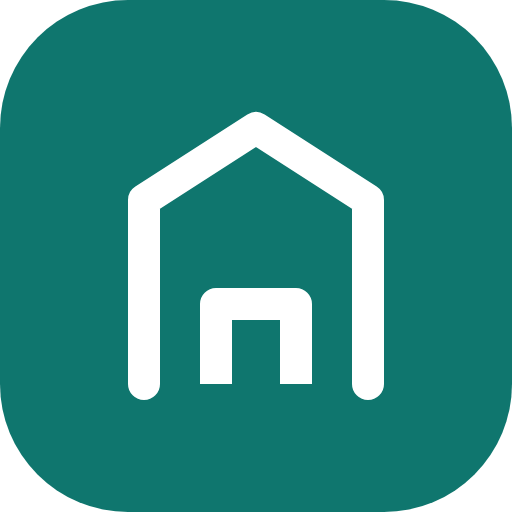
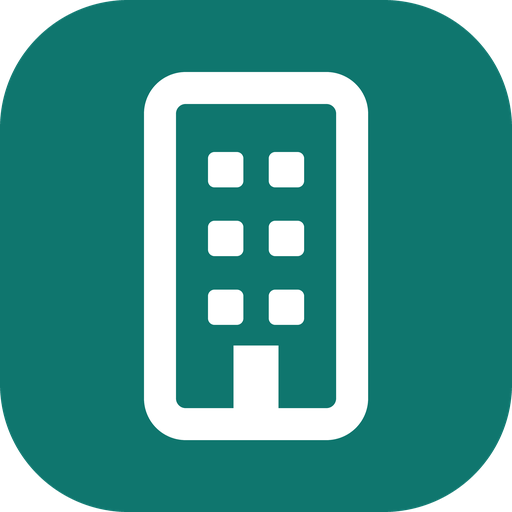
Ícono de Torre: la torre con ventanas en vez de la casa de House
Un solo componente (IconoTorre) en el menú, el inicio de sesión y la portada; favicon,
íconos de instalar (incluidos los maskable), imagen para compartir y cierre de los videos.

Changed region(s): [[0.25, 0.125, 0.75, 0.875], [0.4062, 0.4062, 0.5938, 0.5]]

diff --git a/src/ui/IconoTorre.tsx b/src/ui/IconoTorre.tsx
@@ -1,0 +1,28 @@
+/**
+ * Ícono de Torre (4-nov-2026, Miguel eligió la opción A): una torre con ventanas sobre el cuadro de marca. Reemplaza a la casa que quedó de cuando el
+ * producto se llamaba House. El mismo dibujo vive en `public/favicon.svg`, en los PNG de instalar (`scripts/marketing/iconos-torre.py`) y en el cierre de
+ * los videos: si cambias las medidas aquí, cámbialas allá.
+ *
+ * Usa los colores del tema (`fill-brand`, `on-brand`), así que toma el color de la marca propia de la empresa cuando está activa.
+ */
+export const TORRE_ICONO = {
+  /** Contorno de la torre (en un cuadro de 32 × 32). */
+  torre: { x: 10, y: 5.5, width: 12, height: 21, rx: 1.6 },
+  /** Ventanas: dos columnas, tres pisos. */
+  ventanas: [[13, 9.5], [16.8, 9.5], [13, 13.8], [16.8, 13.8], [13, 18.1], [16.8, 18.1]] as const,
+  ventana: 2.2,
+  /** Puerta, apoyada en la base. */
+  puerta: { x: 14.6, y: 21.6, width: 2.8, height: 4.9 },
+} as const;
+
+export function IconoTorre({ className }: { className?: string }) {
+  const { torre, ventanas, ventana, puerta } = TORRE_ICONO;
+  return (
+    <svg viewBox="0 0 32 32" className={className} aria-hidden="true">
+      <rect width="32" height="32" rx="8" className="fill-brand" />
+      <rect {...torre} fill="none" className="stroke-on-brand" strokeWidth="2" />
+      {ventanas.map(([x, y]) => <rect key={`${x}-${y}`} x={x} y={y} width={ventana} height={ventana} rx="0.4" className="fill-on-brand" />)}
+      <rect {...puerta} className="fill-on-brand" />
+    </svg>
+  );
+}

diff --git a/src/pages/Login.tsx b/src/pages/Login.tsx
@@ -6,6 +6,7 @@ import { HOME, useAuth } from '../auth/AuthContext';
 import { Alert, Button, Input } from '../ui';
 import { api, ApiError, errorText } from '../api';
 import PanelLogin from './_login/PanelLogin';
+import { IconoTorre } from '../ui/IconoTorre';
 
 const DEMO = [
   ['Superadmin', 'miguel.gargurevich@admin.com', 'admin1234'],
@@ -61,10 +62,7 @@ export default function Login() {
       <main className="flex items-center justify-center px-6 py-12">
         <div className="w-full max-w-sm">
           <div className="mb-8 flex items-center gap-2.5 font-semibold tracking-tight">
-            <svg viewBox="0 0 32 32" className="h-8 w-8" aria-hidden="true">
-              <rect width="32" height="32" rx="8" className="fill-brand" />
-              <path d="M9 24V12.5L16 8l7 4.5V24M13.5 24v-5h5v5" fill="none" className="stroke-on-brand" strokeWidth="2" strokeLinejoin="round" strokeLinecap="round" />
-            </svg>
+            <IconoTorre className="h-8 w-8" />
             <span className="text-xl">Torre</span>
           </div>
           <h1 className="text-2xl font-semibold">Ingresa a tu cuenta</h1>

diff --git a/src/app/Shell.tsx b/src/app/Shell.tsx
@@ -19,6 +19,7 @@ import { MARCA_TORRE, inicialDeMarca } from '../lib/marca';
 import { ImagenRecibo } from '../pages/shared/mantenimiento/ImagenRecibo';
 import { MarcaContext, useMarca } from './marca/contexto';
 import { MarcaTema } from './marca/MarcaTema';
+import { IconoTorre } from '../ui/IconoTorre';
 
 /** Encabezado del menú: la marca de la empresa (logo o su inicial y su nombre) si la tiene activa; si no, la de Torre. */
 function Logo({ soloMarca = false }: { soloMarca?: boolean }) {
@@ -36,10 +37,7 @@ function Logo({ soloMarca = false }: { soloMarca?: boolean }) {
   }
   return (
     <span className="flex items-center gap-2.5 font-semibold tracking-tight">
-      <svg viewBox="0 0 32 32" className="h-7 w-7 shrink-0" aria-hidden="true">
-        <rect width="32" height="32" rx="8" className="fill-brand" />
-        <path d="M9 24V12.5L16 8l7 4.5V24M13.5 24v-5h5v5" fill="none" className="stroke-on-brand" strokeWidth="2" strokeLinejoin="round" strokeLinecap="round" />
-      </svg>
+      <IconoTorre className="h-7 w-7 shrink-0" />
       {!soloMarca && 'Torre'}
     </span>
   );

diff --git a/tests/instalar-app.test.ts b/tests/instalar-app.test.ts
@@ -49,3 +49,17 @@ describe('íconos para instalar y para la pestaña (4-nov, comparado con el Port
     for (const t of ['href="/favicon-32.png"', 'href="/favicon-16.png"', 'rel="apple-touch-icon" sizes="180x180"']) assert.ok(h.includes(t), t);
   });
 });
+
+describe('ícono de Torre: la torre con ventanas (Miguel, 4-nov: la casa quedó de cuando se llamaba House)', () => {
+  it('el logo de la app, del inicio de sesión y de la portada es el mismo componente; ya no queda la casa', () => {
+    for (const ruta of ['src/app/Shell.tsx', 'src/pages/Login.tsx', 'src/pages/publico/Marco.tsx']) {
+      const t = fuente(ruta);
+      assert.match(t, /<IconoTorre className=/, ruta);
+      assert.equal(t.includes('12.5L16 8'), false, `${ruta}: sin la casa`);
+    }
+    const svg = fuente('public/favicon.svg');
+    assert.match(svg, /<rect x="10" y="5.5" width="12" height="21"/);
+    assert.equal(svg.includes('<path'), false, 'el favicon ya no es la casa');
+    assert.equal(fuente('scripts/marketing/grabar-video.mjs').includes('12.5L16 8'), false, 'el cierre de los videos tampoco');
+  });
+});

diff --git a/src/pages/publico/Marco.tsx b/src/pages/publico/Marco.tsx
@@ -3,14 +3,12 @@ import { Link } from 'react-router-dom';
 import { cx } from '../../ui';
 import { pieMarco } from '../../lib/seo/textos';
 import { useCatalogo } from './catalogo';
+import { IconoTorre } from '../../ui/IconoTorre';
 
 export function Logo() {
   return (
     <Link to="/" className="flex items-center gap-2.5 font-semibold tracking-tight" aria-label="Torre, inicio">
-      <svg viewBox="0 0 32 32" className="h-8 w-8" aria-hidden="true">
-        <rect width="32" height="32" rx="8" className="fill-brand" />
-        <path d="M9 24V12.5L16 8l7 4.5V24M13.5 24v-5h5v5" fill="none" className="stroke-on-brand" strokeWidth="2" strokeLinejoin="round" strokeLinecap="round" />
-      </svg>
+      <IconoTorre className="h-8 w-8" />
       <span className="text-xl">Torre</span>
     </Link>
   );

diff --git a/scripts/marketing/iconos-torre.py b/scripts/marketing/iconos-torre.py
@@ -1,0 +1,72 @@
+#!/usr/bin/env python3
+"""Genera los íconos de Torre (la torre con ventanas, opción A de Miguel, 4-nov-2026) en `public/`.
+
+Uso: python3 scripts/marketing/iconos-torre.py
+
+Mismas medidas que `src/ui/IconoTorre.tsx` (cuadro de 32 × 32). Se dibuja 8 veces más grande y se reduce (bordes suaves sin depender de un
+rasterizador de SVG). Salen:
+  favicon.svg, favicon-16.png, favicon-32.png        pestaña del navegador
+  icon-192.png, icon-512.png                         app instalada (esquinas redondeadas, fondo transparente)
+  apple-touch-icon.png (180)                         iPhone (cuadrado lleno: iOS redondea solo)
+  icon-maskable-192.png, icon-maskable-512.png       Android (fondo a sangre y la torre dentro de la zona segura)
+"""
+from PIL import Image, ImageDraw
+
+VERDE = (15, 118, 110, 255)
+BLANCO = (255, 255, 255, 255)
+TORRE = (10, 5.5, 12, 21, 1.6)  # x, y, ancho, alto, radio
+VENTANAS = [(13, 9.5), (16.8, 9.5), (13, 13.8), (16.8, 13.8), (13, 18.1), (16.8, 18.1)]
+VENTANA = 2.2
+PUERTA = (14.6, 21.6, 2.8, 4.9)
+SS = 8  # supermuestreo
+
+
+def dibujar(lado, *, esquinas=True, escala=1.0, trazo=2.0):
+    """Ícono de `lado` px. `escala` < 1 achica la torre dentro del cuadro (maskable). `trazo` en unidades de 32."""
+    n = lado * SS
+    im = Image.new('RGBA', (n, n), (0, 0, 0, 0))
+    d = ImageDraw.Draw(im)
+    u = n / 32
+    if esquinas:
+        d.rounded_rectangle((0, 0, n - 1, n - 1), radius=8 * u, fill=VERDE)
+    else:
+        d.rectangle((0, 0, n, n), fill=VERDE)
+    c = 16  # centro: la torre se escala alrededor del centro del cuadro
+
+    def p(x, y):
+        return ((c + (x - c) * escala) * u, (c + (y - c) * escala) * u)
+
+    x, y, w, h, r = TORRE
+    t = trazo * escala * u
+    a, b = p(x, y), p(x + w, y + h)
+    d.rounded_rectangle((a[0] - t / 2, a[1] - t / 2, b[0] + t / 2, b[1] + t / 2), radius=(r + trazo / 2) * escala * u, fill=BLANCO)
+    d.rounded_rectangle((a[0] + t / 2, a[1] + t / 2, b[0] - t / 2, b[1] - t / 2), radius=max(0, (r - trazo / 2)) * escala * u, fill=VERDE)
+    for vx, vy in VENTANAS:
+        a, b = p(vx, vy), p(vx + VENTANA, vy + VENTANA)
+        d.rounded_rectangle((*a, *b), radius=0.4 * escala * u, fill=BLANCO)
+    x, y, w, h = PUERTA
+    a, b = p(x, y), p(x + w, y + h)
+    d.rectangle((*a, *b), fill=BLANCO)
+    return im.resize((lado, lado), Image.LANCZOS)
+
+
+def svg():
+    x, y, w, h, r = TORRE
+    ventanas = ''.join(f'<rect x="{vx}" y="{vy}" width="{VENTANA}" height="{VENTANA}" rx="0.4" fill="#fff"/>' for vx, vy in VENTANAS)
+    px, py, pw, ph = PUERTA
+    return (f'<svg xmlns="http://www.w3.org/2000/svg" viewBox="0 0 32 32"><rect width="32" height="32" rx="8" fill="#0f766e"/>'
+            f'<rect x="{x}" y="{y}" width="{w}" height="{h}" rx="{r}" fill="none" stroke="#fff" stroke-width="2"/>{ventanas}'
+            f'<rect x="{px}" y="{py}" width="{pw}" height="{ph}" fill="#fff"/></svg>\n')
+
+
+if __name__ == '__main__':
+    open('public/favicon.svg', 'w').write(svg())
+    dibujar(16, trazo=2.6).save('public/favicon-16.png')
+    dibujar(32, trazo=2.2).save('public/favicon-32.png')
+    dibujar(192).save('public/icon-192.png')
+    dibujar(512).save('public/icon-512.png')
+    dibujar(180, esquinas=False).convert('RGB').save('public/apple-touch-icon.png')
+    # Maskable: la zona segura es un círculo de radio 40 %; la torre (21 de alto) al 72 % entra holgada.
+    dibujar(192, esquinas=False, escala=0.72).convert('RGB').save('public/icon-maskable-192.png')
+    dibujar(512, esquinas=False, escala=0.72).convert('RGB').save('public/icon-maskable-512.png')
+    print('íconos de Torre generados en public/')

diff --git a/scripts/marketing/manual-con-videos.py b/scripts/marketing/manual-con-videos.py
@@ -18,8 +18,9 @@ import sys
 BASE_VIDEOS = 'https://s3.gargurevich.dev/dashboardia-bucket/documentos/b601f104-f838-49e7-9da5-c49efe9dc723/videos-torre/manual'
 ACENTO = '#0f766e'  # verde de Torre (el mismo del cierre de los videos y del ícono)
 APP = 'https://torrecondominios.com'
-ORDEN_ROLES = ['admin', 'junta', 'junta_central', 'propietario', 'inquilino', 'mantenimiento', 'seguridad', 'limpieza', 'jardineria']
+ORDEN_ROLES = ['todos', 'admin', 'junta', 'junta_central', 'propietario', 'inquilino', 'mantenimiento', 'seguridad', 'limpieza', 'jardineria']
 QUIEN = {
+    'todos': 'Todos los usuarios, en el celular',
     'admin': 'La administradora (la empresa que administra el condominio)',
     'junta': 'La junta directiva de cada block (presidente, tesorero, secretario)',
     'junta_central': 'La Junta central del condominio (además de lo de la junta)',
@@ -78,7 +79,8 @@ def payload(salida):
             if e.get('comparte_con') or e.get('nota'):
                 parrafos.append(e.get('nota') or 'Es la misma pantalla que la de otro rol: el video sirve igual.')
             if video:
-                parrafos.append(f'VIDEO::{video}')
+                formato = e.get('formato') or 'escritorio'
+                parrafos.append(f'VIDEO::{video}::{formato}')
             secciones.append({'titulo': e['menu'], 'etiqueta': e['rol_nombre'], 'parrafos': parrafos})
 
     secciones.append({
@@ -127,14 +129,17 @@ def videos(entrada, salida, grupos_json=None):
         nonlocal n
         n += 1
         v = html.unescape(m.group(1))
-        url = f'{BASE_VIDEOS}/torre-{v}-escritorio.mp4'
-        return (f'<figure class="video-torre"><video controls preload="none" playsinline '
+        formato = m.group(2) or 'escritorio'
+        url = f'{BASE_VIDEOS}/torre-{v}-{formato}.mp4'
+        clase = 'video-torre video-celular' if formato == 'celular' else 'video-torre'
+        return (f'<figure class="{clase}"><video controls preload="none" playsinline '
                 f'src="{url}#t=0.5" aria-label="Video de esta opción"></video>'
                 f'<figcaption><a href="{url}" target="_blank" rel="noopener">Abrir el video en otra pestaña</a></figcaption></figure>')
 
-    h = re.sub(r'<p[^>]*>\s*VIDEO::([A-Za-z0-9._-]+)\s*</p>', reemplazo, h)
+    h = re.sub(r'<p[^>]*>\s*VIDEO::([A-Za-z0-9._-]+?)(?:::(escritorio|celular))?\s*</p>', reemplazo, h)
     estilo = ('<style>.video-torre{margin:1rem 0 0}.video-torre video{display:block;width:100%;max-width:960px;aspect-ratio:16/9;'
               'border-radius:12px;border:1px solid var(--borde,#e2e8f2);background:#0b1f1d}'
+              '.video-celular video{max-width:340px;aspect-ratio:9/16}'
               '.video-torre figcaption{margin-top:.4rem;font-size:.85rem}@media print{.video-torre{display:none}}'
               # El índice lateral es «sticky»: con 60 opciones no entraba en la pantalla y no se podía bajar.
               '.toc{max-height:calc(100vh - 3rem);overflow-y:auto;overscroll-behavior:contain;padding-right:.25rem}'

diff --git a/docs/HANDOFF.md b/docs/HANDOFF.md
@@ -4,6 +4,15 @@ Registro entre agentes de código (Claude Code, OpenCode, Cline…). Una entrada
 
 ---
 
+## 2026-11-04 — Ícono nuevo: la torre con ventanas (Claude Code, Opus 5.5) — push: no
+
+- Miguel: «el ícono es una casa (quedó de House), ahora se llama Torre» → eligió la opción A (torre con ventanas, 2 × 3 ventanas y puerta).
+- `src/ui/IconoTorre.tsx` (un solo componente, colores del tema: toma la marca propia) en `Shell`, `Login` y `publico/Marco`. `public/favicon.svg` y los PNG (192, 512, maskable 192/512, apple-touch 180, favicon 16/32) con `scripts/marketing/iconos-torre.py` (PIL, supermuestreo). `og-torre.png` con `scripts/seo/generar-imagenes.mjs` (lee el favicon.svg; ese script también reescribe 3 íconos: corre `iconos-torre.py` DESPUÉS). Cierre de los videos (`grabar-video.mjs`) con la torre. Prueba en `tests/instalar-app.test.ts` (ya no queda la casa).
+- Antes (mismo día): íconos maskable, favicons PNG y `sizes` del apple-touch, comparado con el Portal de Dealers (que salió de Torre).
+- Gotcha: los videos ya publicados (1–6 y los del manual) siguen con la casa en el cierre; los del manual no tienen cierre de marca.
+
+---
+
 ## 2026-11-04 — Videos del manual: WhatsApp, comunicados y «Tu marca» (Claude Code, Haiku 5.5, delegado por Opus; rama `feat/manual-videos`) — push: no
 
 - **Pedido de Miguel**: revisar que los videos muestren las últimas opciones de WhatsApp (contador, Mis grupos, avisos del condominio), comunicados (junta, correo, WhatsApp, grupos) y la opción nueva «Tu marca».
